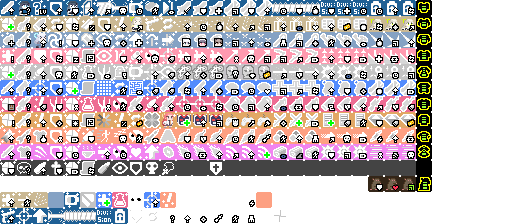
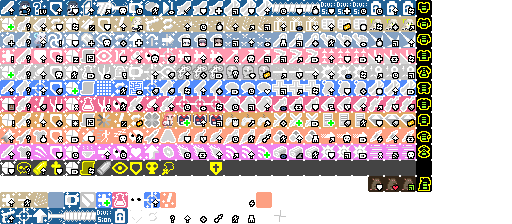
성탄 기적 추가

Changed region(s): [[0.1562, 0.7188, 0.3438, 0.7812], [0.0312, 0.7188, 0.125, 0.7812], [0.4062, 0.7188, 0.4375, 0.7812]]

diff --git a/core/src/main/java/com/shatteredpixel/shatteredpixeldungeon/actors/hero/miracles/HolyBullet.java b/core/src/main/java/com/shatteredpixel/shatteredpixeldungeon/actors/hero/miracles/HolyBullet.java
@@ -1,0 +1,137 @@
+package com.shatteredpixel.shatteredpixeldungeon.actors.hero.miracles;
+
+import com.shatteredpixel.shatteredpixeldungeon.Assets;
+import com.shatteredpixel.shatteredpixeldungeon.Dungeon;
+import com.shatteredpixel.shatteredpixeldungeon.actors.Actor;
+import com.shatteredpixel.shatteredpixeldungeon.actors.Char;
+import com.shatteredpixel.shatteredpixeldungeon.actors.hero.Hero;
+import com.shatteredpixel.shatteredpixeldungeon.effects.Splash;
+import com.shatteredpixel.shatteredpixeldungeon.effects.particles.ShadowParticle;
+import com.shatteredpixel.shatteredpixeldungeon.effects.particles.SparkParticle;
+import com.shatteredpixel.shatteredpixeldungeon.items.Item;
+import com.shatteredpixel.shatteredpixeldungeon.items.artifacts.CrossNecklace;
+import com.shatteredpixel.shatteredpixeldungeon.items.wands.Wand;
+import com.shatteredpixel.shatteredpixeldungeon.items.weapon.melee.gun.Gun;
+import com.shatteredpixel.shatteredpixeldungeon.mechanics.Ballistica;
+import com.shatteredpixel.shatteredpixeldungeon.messages.Messages;
+import com.shatteredpixel.shatteredpixeldungeon.sprites.ItemSpriteSheet;
+import com.shatteredpixel.shatteredpixeldungeon.ui.HeroIcon;
+import com.shatteredpixel.shatteredpixeldungeon.ui.QuickSlotButton;
+import com.shatteredpixel.shatteredpixeldungeon.utils.GLog;
+import com.watabou.noosa.audio.Sample;
+import com.watabou.noosa.particles.Emitter;
+import com.watabou.utils.Random;
+
+public class HolyBullet extends TargetedMariMiracle {
+    public static final HolyBullet INSTANCE = new HolyBullet();
+
+    @Override
+    public int icon() {
+        return HeroIcon.HOLY_BULLET;
+    }
+
+    @Override
+    public float chargeUse(Hero hero) {
+        return 5;
+    }
+
+    @Override
+    public String desc() {
+        return Messages.get(this, "desc", Dungeon.hero.lvl+5) + "\n\n" + Messages.get(this, "charge_cost", (int)chargeUse(Dungeon.hero));
+    }
+
+    @Override
+    protected void onTargetSelected(CrossNecklace cross, Hero hero, Integer target) {
+        if (target == null){
+            return;
+        }
+
+        Ballistica aim = new Ballistica(hero.pos, target, targetingFlags());
+
+        if (Actor.findChar( aim.collisionPos ) == hero){
+            GLog.i( Messages.get(Wand.class, "self_target") );
+            return;
+        }
+
+        if (Actor.findChar(aim.collisionPos) != null) {
+            QuickSlotButton.target(Actor.findChar(aim.collisionPos));
+        } else {
+            QuickSlotButton.target(Actor.findChar(target));
+        }
+
+        hero.busy();
+        Sample.INSTANCE.play( Assets.Sounds.ZAP );
+        hero.sprite.zap(target);
+        HolyBulletItem holyBulletItem = new HolyBulletItem(cross, hero);
+        holyBulletItem.cast(hero, target);
+    }
+
+    @Override
+    public void onMiracleCast(CrossNecklace cross, Hero hero) {
+        super.onMiracleCast(cross, hero);
+
+        Gun gun = getEquippedGun(hero);
+        if (gun != null) gun.manualReload();
+    }
+
+    public class HolyBulletItem extends Item {
+        {
+            image = ItemSpriteSheet.HOLY_BULLET;
+        }
+
+        CrossNecklace cross;
+        Hero hero;
+
+        public HolyBulletItem(CrossNecklace cross, Hero hero) {
+            this.cross = cross;
+            this.hero = hero;
+        }
+
+        @Override
+        protected void onThrow(int cell) {
+            Char ch = Actor.findChar( cell );
+            Gun gun = getEquippedGun(hero);
+
+            if (ch != null) {
+                int damage = Hero.heroDamageIntRange(10, 20);
+                if (hero.buff(LightBullet.LightMagazine.class) != null) {
+                    hero.buff(LightBullet.LightMagazine.class).onShoot(hero);
+                    damage += hero.lvl+5;
+                }
+                if (Char.hasProp(ch, Char.Property.DEMONIC) || Char.hasProp(ch, Char.Property.UNDEAD)) {
+                    ch.sprite.emitter().burst( ShadowParticle.UP, 6 );
+                    Sample.INSTANCE.play(Assets.Sounds.BURNING);
+                    damage = Math.round(damage*1.5f);
+                }
+                ch.damage(damage, new LightBullet());
+                Sample.INSTANCE.play(Assets.Sounds.HIT_MAGIC, 1, Random.Float(0.87f, 1.15f));
+                ch.sprite.burst(0xFF2CFFE7, 3);
+                if (gun != null) {
+                    if (!ch.isAlive()) {
+                        gun.quickReload();
+                    }
+                }
+
+            } else {
+                Dungeon.level.pressCell(cell);
+            }
+
+            onMiracleCast(cross, hero);
+            Splash.at(cell, 0xFF2CFFE7, 3);
+        }
+
+        @Override
+        public void throwSound() {
+            Sample.INSTANCE.play(Assets.Sounds.ZAP);
+        }
+
+        @Override
+        public Emitter emitter() {
+            Emitter emitter = new Emitter();
+            emitter.pos( 5, 5, 0, 0);
+            emitter.fillTarget = false;
+            emitter.pour(SparkParticle.FACTORY, 0.01f);
+            return emitter;
+        }
+    }
+}

diff --git a/core/src/main/java/com/shatteredpixel/shatteredpixeldungeon/sprites/MissileSprite.java b/core/src/main/java/com/shatteredpixel/shatteredpixeldungeon/sprites/MissileSprite.java
@@ -25,6 +25,7 @@ import com.shatteredpixel.shatteredpixeldungeon.Dungeon;
 import com.shatteredpixel.shatteredpixeldungeon.actors.hero.abilities.izuna.ThrowingThunder;
 import com.shatteredpixel.shatteredpixeldungeon.actors.hero.abilities.shiroko.PenetrationShot;
 import com.shatteredpixel.shatteredpixeldungeon.actors.hero.console.fantasy.IceLance;
+import com.shatteredpixel.shatteredpixeldungeon.actors.hero.miracles.HolyBullet;
 import com.shatteredpixel.shatteredpixeldungeon.actors.hero.miracles.LightBullet;
 import com.shatteredpixel.shatteredpixeldungeon.actors.hero.miracles.SilverBullet;
 import com.shatteredpixel.shatteredpixeldungeon.actors.hero.spells.HolyLance;
@@ -120,6 +121,7 @@ public class MissileSprite extends ItemSprite implements Tweener.Listener {
 		ANGULAR_SPEEDS.put(ThrowingThunder.PotOThunder.class,  0);
 		ANGULAR_SPEEDS.put(LightBullet.LightBulletItem.class,  0);
 		ANGULAR_SPEEDS.put(SilverBullet.SilverBulletItem.class,  0);
+		ANGULAR_SPEEDS.put(HolyBullet.HolyBulletItem.class,  0);
 
 		//720 is default
 
@@ -200,6 +202,7 @@ public class MissileSprite extends ItemSprite implements Tweener.Listener {
         }
 		if (item instanceof LightBullet.LightBulletItem
 		 || item instanceof SilverBullet.SilverBulletItem
+		 || item instanceof HolyBullet.HolyBulletItem
 		) {
 			speed *= 3f;
 		}

diff --git a/core/src/main/java/com/shatteredpixel/shatteredpixeldungeon/actors/hero/miracles/MariMiracle.java b/core/src/main/java/com/shatteredpixel/shatteredpixeldungeon/actors/hero/miracles/MariMiracle.java
@@ -5,6 +5,7 @@ import com.shatteredpixel.shatteredpixeldungeon.actors.buffs.Barrier;
 import com.shatteredpixel.shatteredpixeldungeon.actors.buffs.Buff;
 import com.shatteredpixel.shatteredpixeldungeon.actors.buffs.Invisibility;
 import com.shatteredpixel.shatteredpixeldungeon.actors.hero.Hero;
+import com.shatteredpixel.shatteredpixeldungeon.actors.hero.HeroSubClass;
 import com.shatteredpixel.shatteredpixeldungeon.actors.hero.Talent;
 import com.shatteredpixel.shatteredpixeldungeon.items.artifacts.CrossNecklace;
 import com.shatteredpixel.shatteredpixeldungeon.items.weapon.melee.gun.Gun;
@@ -105,6 +106,9 @@ public abstract class MariMiracle {
             if (mari.hasTalent(Talent.MARI_T3_1)) {
                 miracles.add(Purification.INSTANCE);
             }
+            if (mari.subClass == HeroSubClass.DEVOUT_PRAYER) {
+                miracles.add(HolyBullet.INSTANCE);
+            }
 
         } else if (tier == 4){
 
@@ -124,6 +128,7 @@ public abstract class MariMiracle {
         miracles.add(MindBind.INSTANCE);
         miracles.add(BlessOfCharity.INSTANCE);
         miracles.add(Purification.INSTANCE);
+        miracles.add(HolyBullet.INSTANCE);
 
         return miracles;
     }

diff --git a/core/src/main/java/com/shatteredpixel/shatteredpixeldungeon/effects/particles/SilverParticle.java b/core/src/main/java/com/shatteredpixel/shatteredpixeldungeon/effects/particles/SilverParticle.java
@@ -1,0 +1,43 @@
+package com.shatteredpixel.shatteredpixeldungeon.effects.particles;
+
+import com.watabou.noosa.particles.Emitter;
+import com.watabou.noosa.particles.PixelParticle;
+import com.watabou.utils.PointF;
+import com.watabou.utils.Random;
+
+public class SilverParticle extends PixelParticle.Shrinking {
+    public static final Emitter.Factory FACTORY = new Emitter.Factory() {
+        @Override
+        public void emit( Emitter emitter, int index, float x, float y ) {
+            ((SilverParticle)emitter.recycle( SilverParticle.class )).reset( x, y );
+        }
+    };
+
+    public SilverParticle() {
+        super();
+
+        color( 0xCCCCCC );
+        lifespan = 0.2f;
+
+        acc.set( Random.Float(-5, +5), Random.Float(-5, +5) );
+    }
+
+    public void reset( float x, float y ) {
+        revive();
+
+        this.x = x;
+        this.y = y;
+
+        left = lifespan;
+
+        size = 5;
+        speed.set( 0 );
+    }
+
+    @Override
+    public void update() {
+        super.update();
+        float p = left / lifespan;
+        am = p > 0.6f ? (1 - p) * 2.5f : 1;
+    }
+}

diff --git a/core/src/main/java/com/shatteredpixel/shatteredpixeldungeon/ui/HeroIcon.java b/core/src/main/java/com/shatteredpixel/shatteredpixeldungeon/ui/HeroIcon.java
@@ -240,6 +240,7 @@ public class HeroIcon extends Image {
 	public static final int MIND_BIND		= 128 + 141;
 	public static final int BLESS_OF_CHARITY= 128 + 142;
 	public static final int HOLY_PROTECTION = 128 + 143;
+	public static final int HOLY_BULLET		= 128 + 144;
 
 
 	public HeroIcon(HeroSubClass subCls){
